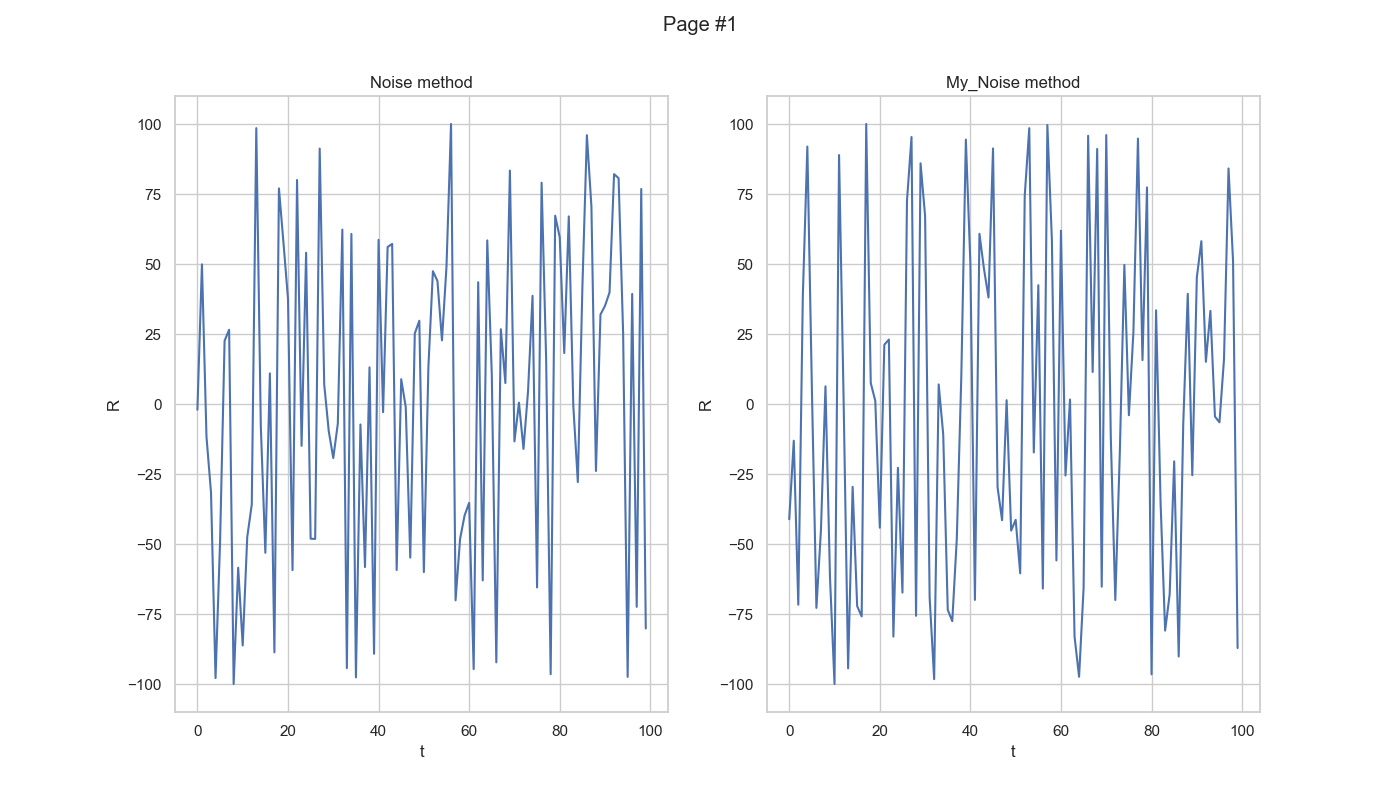
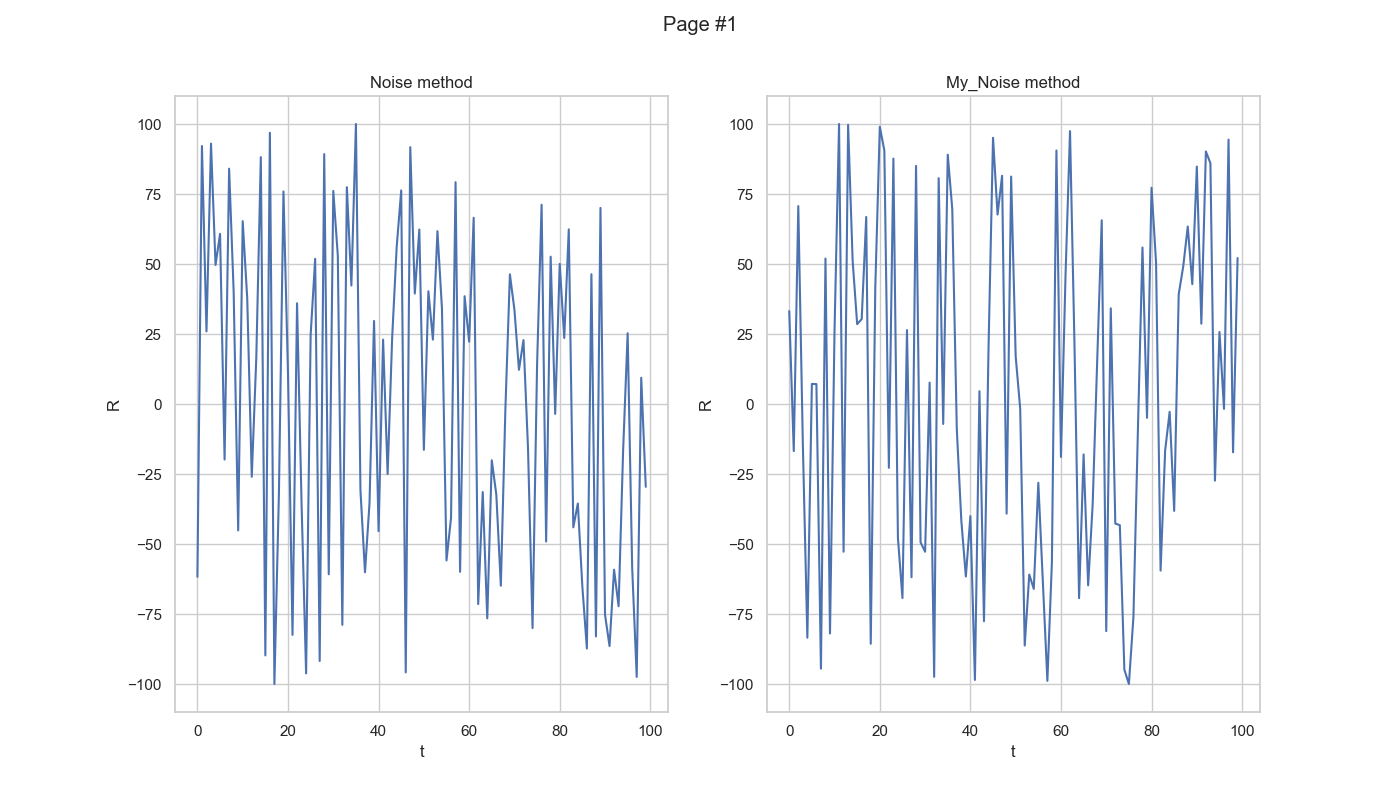
Lab2: fix plots layout

Changed region(s): [[0.5529, 0.1562, 0.8907, 0.8438], [0.1229, 0.1875, 0.4607, 0.8438]]

diff --git a/Lab2/src/main.py b/Lab2/src/main.py
@@ -26,11 +26,11 @@ if __name__ == '__main__':
     sns.set(style="whitegrid")
     if not os.path.exists("./plots"):
         os.makedirs("./plots")
+
+    plt.tight_layout()
     for i in range(len(N)):
         fig = plt.figure(figsize=(14, 8))
         fig.suptitle(f"Page #{i+1}")
         test_noise_methods(N[i])
         fig.savefig(f"./plots/fig_{i+1}.png")
-
-    plt.tight_layout()
     plt.show()

diff --git a/Lab2/src/model.py b/Lab2/src/model.py
@@ -73,7 +73,6 @@ class Model:
             x = np.zeros(N)
             for i in range(N):
                 time_str = str(time.perf_counter()).encode('utf-8')
-                print(time_str)
                 hash_md5 = hashlib.md5(time_str).hexdigest()
                 hash_int = int(hash_md5, 16)
                 x[i] = hash_int / 2**128  # [0, 1]
